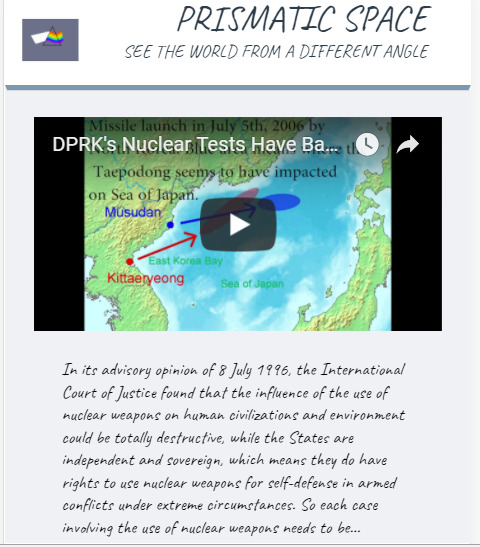
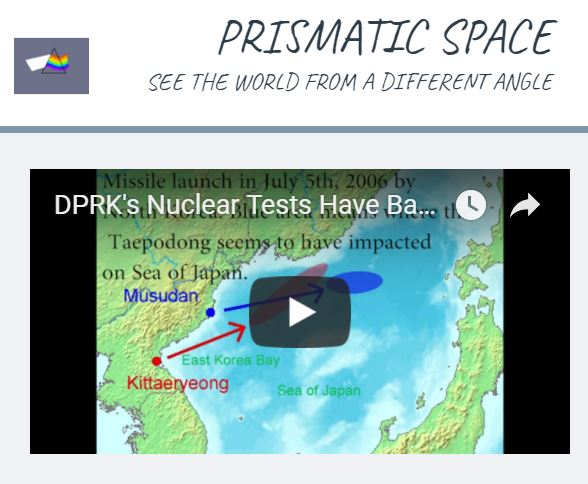
img-changed
changed crop of images

diff --git a/index.html b/index.html
@@ -31,7 +31,7 @@ The Institute is a quality provider of secondary, vocational and higher educatio
  			<h3 class="col-12" id="featured-title">Featured Work</h3><br>
 			<figure class="col-lg-3 col-md-12 col-sm-12">
 				<picture>
-					<img class="work" src="img/seatideview.jpg">
+					<img class="work" src="img/prismatic-space.jpg">
 				</picture>
 				<figcaption>
 				</figcaption>
@@ -39,7 +39,7 @@ The Institute is a quality provider of secondary, vocational and higher educatio
 
 			<figure class="col-lg-3 col-md-12 col-sm-12">
 				<picture>
-					<img class="work" src="img/prismatic-space.jpg">
+					<img class="work" src="img/music-video.jpg">
 				</picture>
 				<figcaption>
 				</figcaption>
@@ -47,7 +47,7 @@ The Institute is a quality provider of secondary, vocational and higher educatio
 			
 			<figure class="col-lg-3 col-md-12 col-sm-12">
 				<picture>
-					<img class="work" src="img/music-video.jpg">
+					<img class="work" src="img/seatideview.jpg">
 				</picture>
 				<figcaption>
 				</figcaption>

diff --git a/css/main.css b/css/main.css
@@ -1,22 +1,22 @@
 
 @media (max-width: 1024px) and (min-width: 420px) {
 	.work {
-		width: 51%;
-		height: 350px;
+		width: 50%;
+		height: 120px;
 	}
 }
 
 @media (min-width: 1025px) {
 	.work {
 		width: 100%;
-		height: 400px;
+		height: 200px;
 	}
 }
 
 @media (max-width: 419px) {
 	.work {
 		width: 100%;
-		height: 400px;
+		height: 200px;
 	}
 }
 
